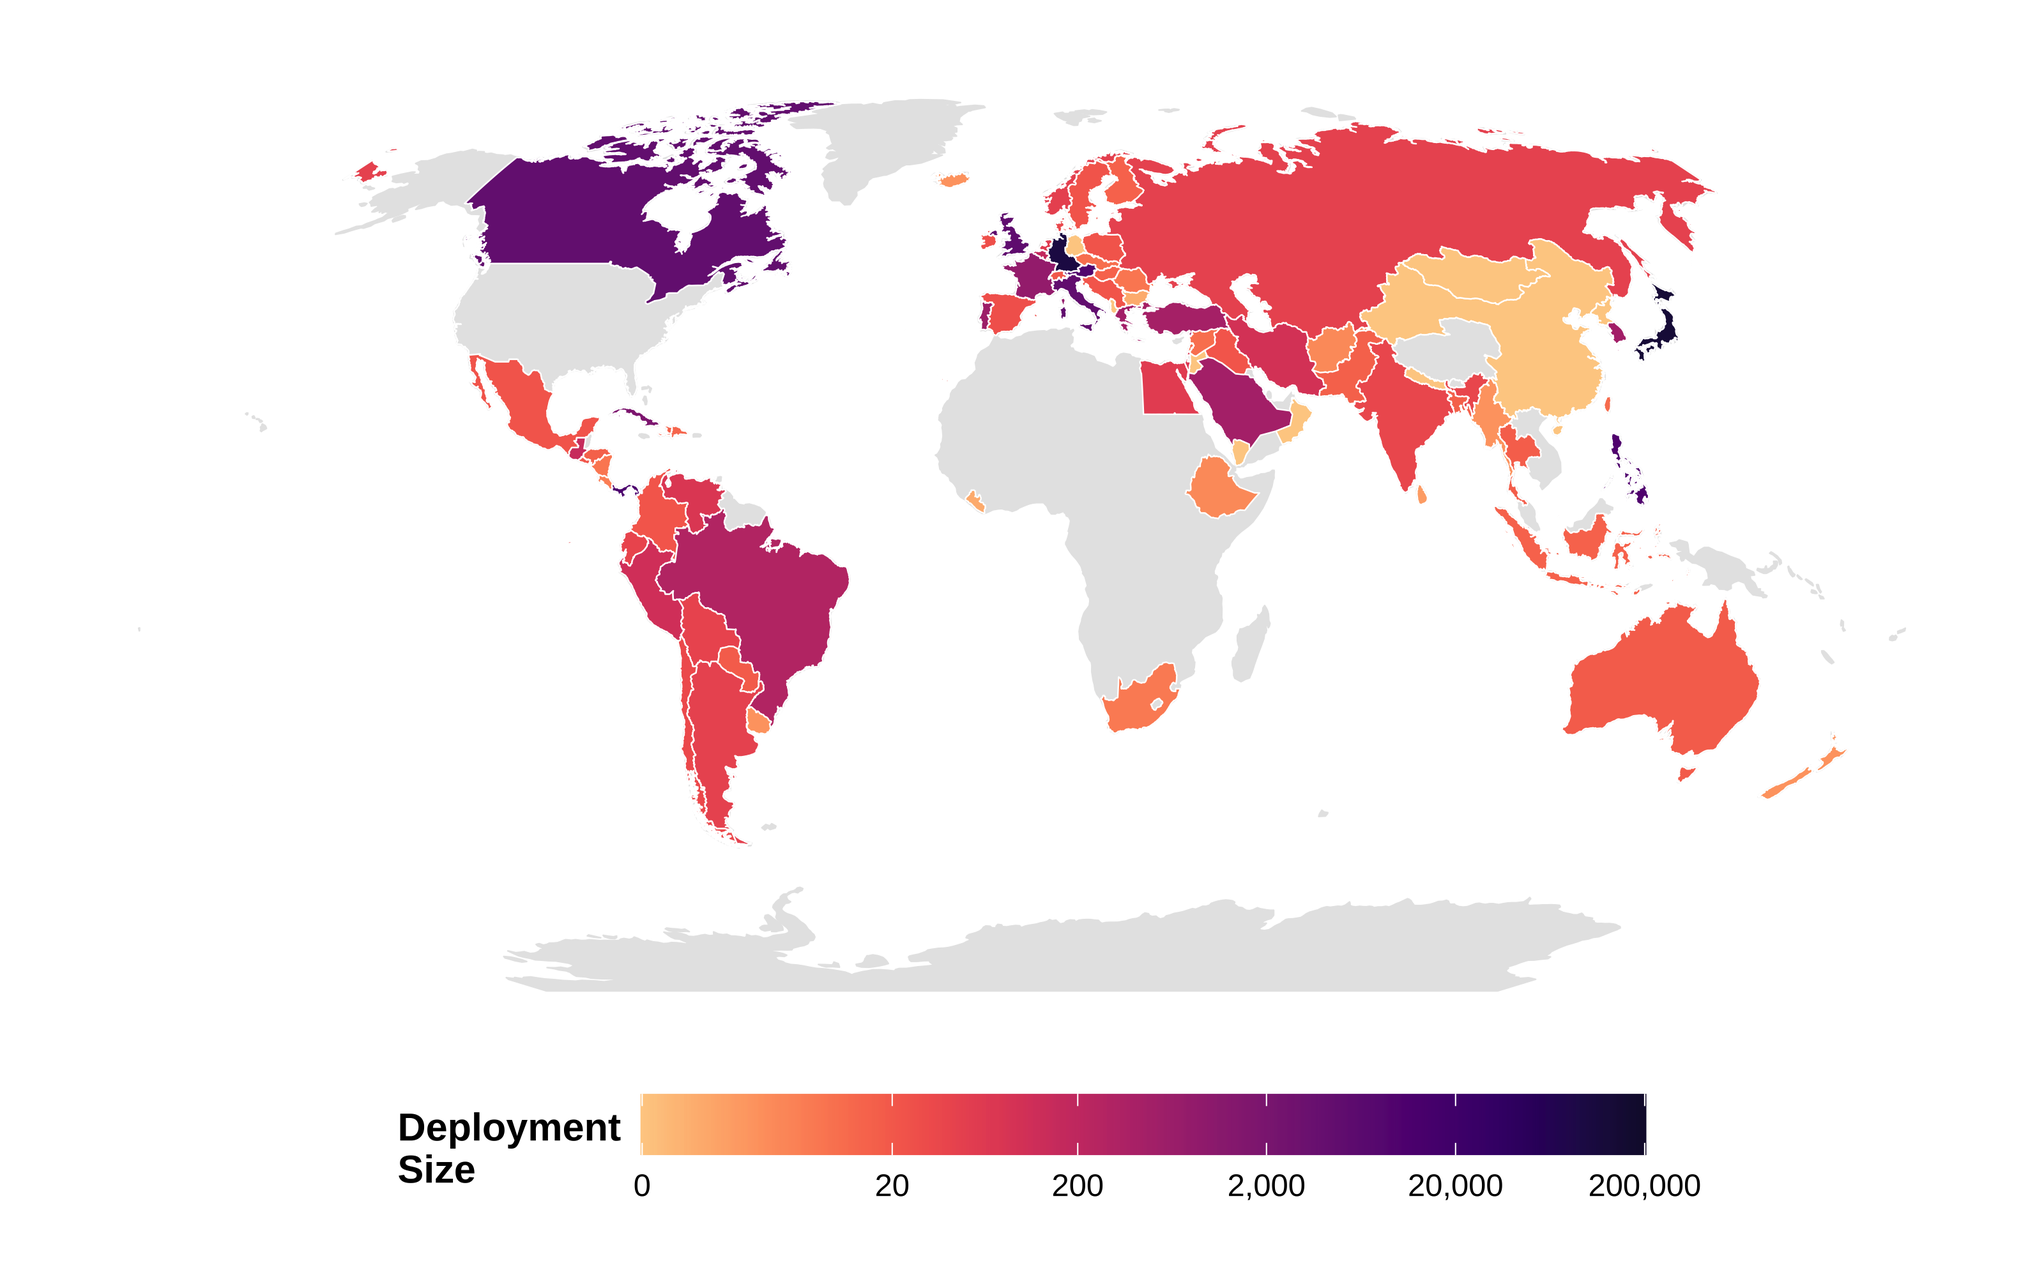
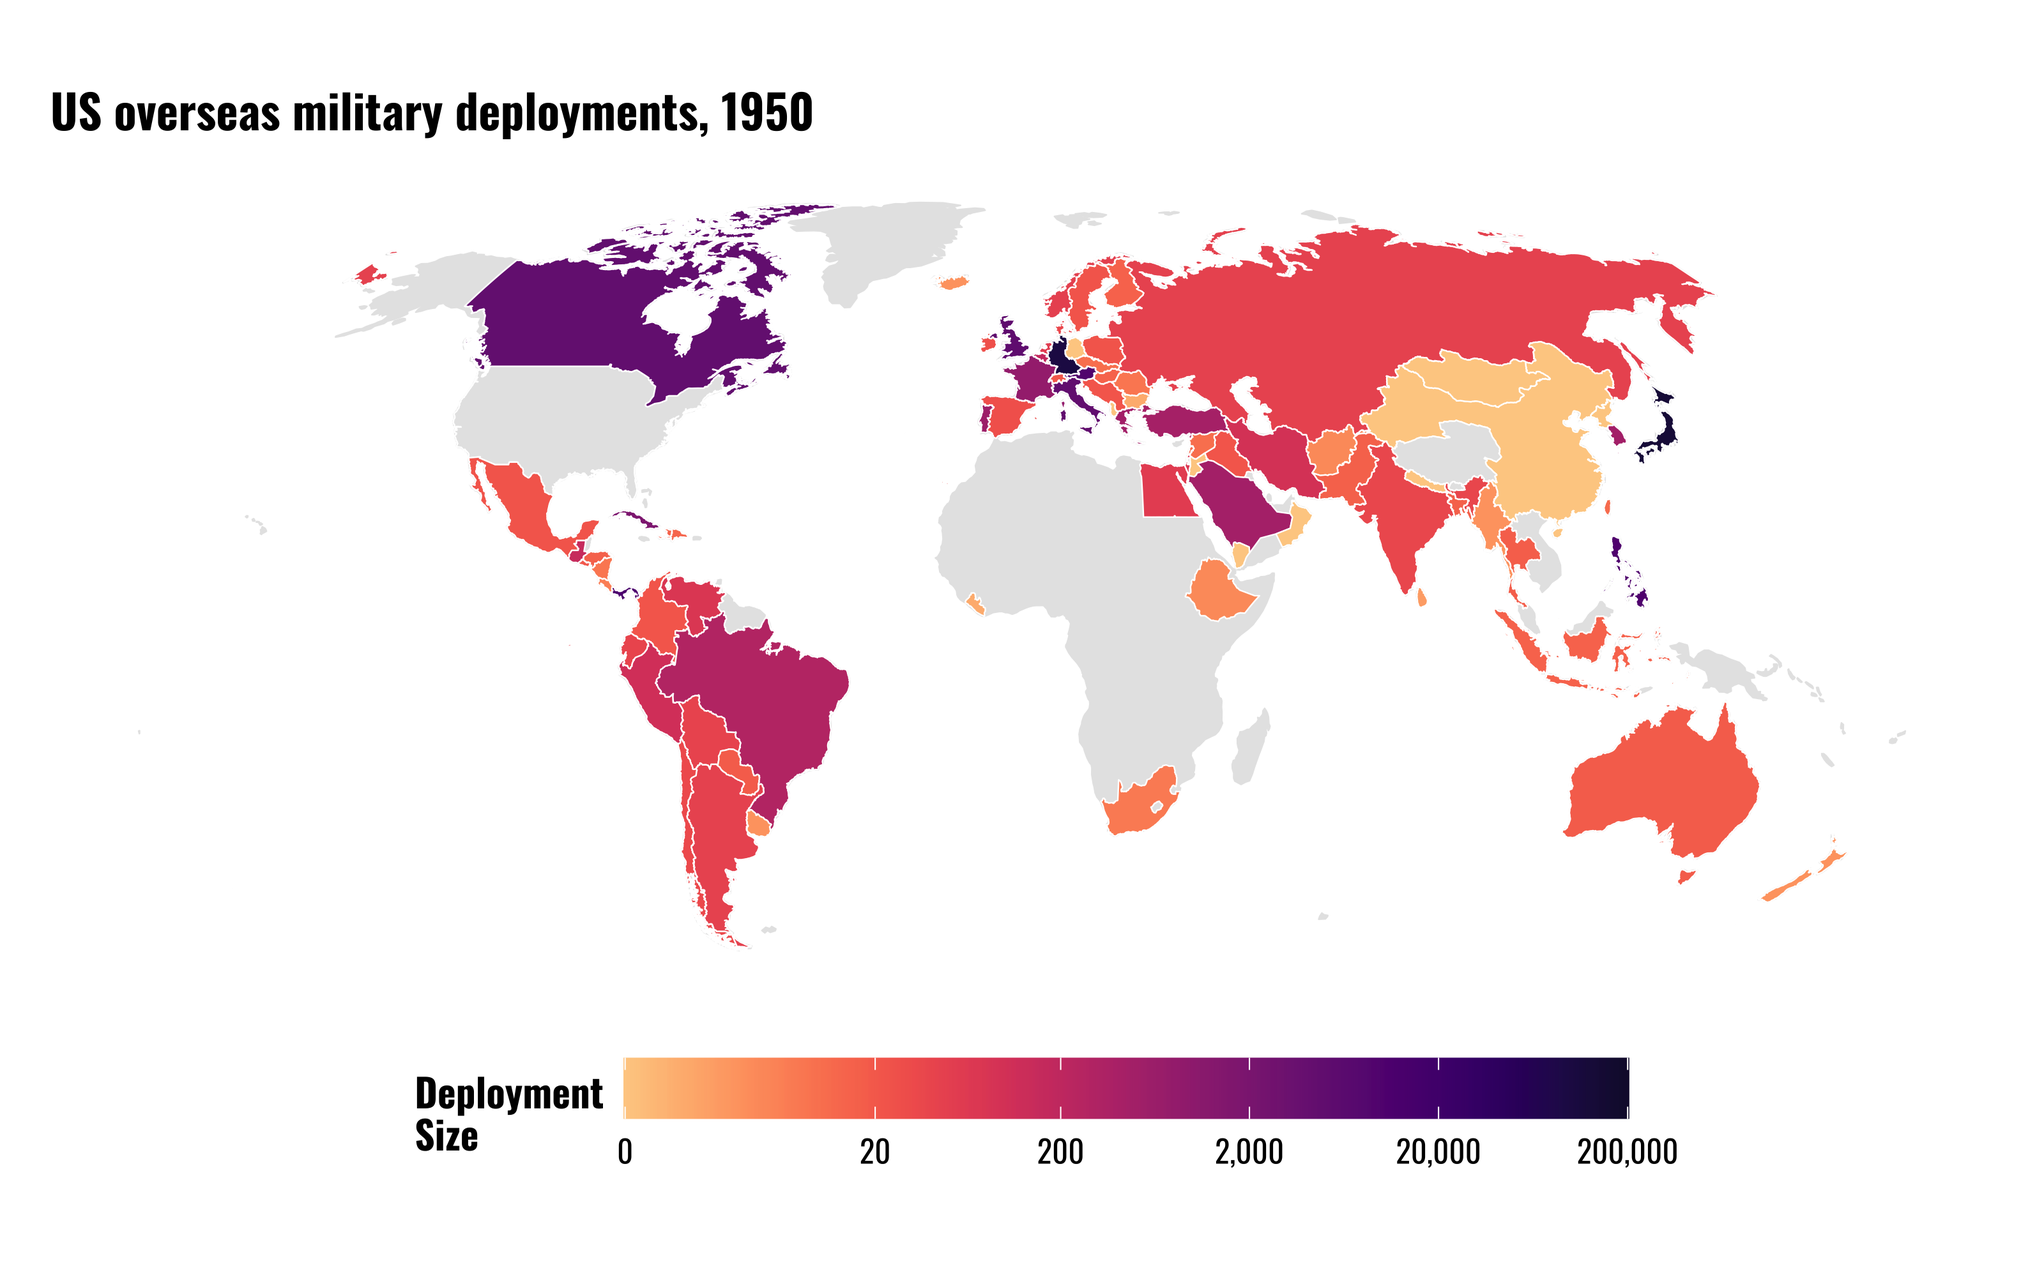
Update bargaining slides. Include notes that were deleted from Dropbox for some reason.

Changed region(s): [[0.0312, 0.062, 0.9062, 0.775], [0.1875, 0.806, 0.8438, 0.93]]

diff --git a/docs/lectures/polsc145-bargaining-model.html b/docs/lectures/polsc145-bargaining-model.html
@@ -27,7 +27,7 @@ class: middle, left, inverse, title-slide
 ### Kansas State University
 ]
 .date[
-### Last Updated 2023-02-07
+### Last Updated 2023-02-08
 ]
 
 ---
@@ -84,6 +84,14 @@ Why do states go to war?
 
 - War can also be highly unpredictable
 
+???
+
+# Notes
+
+
+- War is incredibly costly
+- Rarely is there an all-or-nothing situation where it is impossible to negotiate some middle ground
+- So why can’t states settle on an agreement that leaves both sides better off while avoiding the costs of actual war?
 
 
 ---
@@ -110,6 +118,14 @@ Previous explanations
 - Anarchy
 
 - Imbalances of power
+
+???
+
+# Notes
+
+- Bad people don't always go to war. Sometimes good people go to war.
+- Waltz argues that because there is no overarching authority, there is nothing to stop states from going to war. However, anarchy is constant. Can’t explain variation in outcomes. Why aren’t more powerful states always attacking weaker? We observe cooperation under anarchy, so why can’t states reach a settlement?
+- Power imbalances: When one state is more powerful than another it will seek to dominate the less powerful state. This doesn’t explain why states couldn’t reach a bargain.
 
 
 
@@ -144,6 +160,14 @@ Carl von Clausewitz
 &lt;img src="https://www.clausewitz.com/images/Clausewitz-romantik.jpg" width="70%" style="display: block; margin: auto;" /&gt;
 ]
 
+???
+
+# Notes
+
+- "War is the continuation of politics by other means."
+- Bargaining framework conceptualizes war as one possible option in the broader bargaining/negotiation taking place between states.
+- "It is, of course, well-known that the only source of war is politics—the intercourse of governments and peoples; but it is apt to be assumed that war suspends that intercourse and replaces it by a wholly different condition, ruled by no law but its own…We maintain, on the contrary, that war is simply a continuation of political intercourse, with the addition of other means. We deliberately use the phrase “with the addition of other means” because we also want to make it clear that war in itself does not suspend political intercourse or change it into something entirely different." Page 605.
+
 
 
 ---
@@ -156,7 +180,11 @@ class: left, top
 &gt; **Bargaining Model**: A class of itneractions in which actors try to resolve disputes over the allocation of goods.
 
 
+???
 
+# Notes
+
+Schelling supplementary discussion: "[M]ost conflict situations are essentially bargaining situations. They are situations in which the ability of one participant to gain his ends is dependent to an important degree on the choices or decisions that the other participant will make…To characterize the maneuvers and actions of limited war as a bargaining process is to emphasize that, in addition to the divergent of interest over the variables in dispute, there is a powerful common interest in reaching an outcome that is not enormously destructive of values to both sides. A ‘successful’ employees’ strike is not one that destroys the employer financially, it may even be one that need takes place. Something similar can be true of war." (Schelling 1960, 5–6).
 
 
 
@@ -253,6 +281,16 @@ class: center, middle
 
 &lt;img src="https://upload.wikimedia.org/wikipedia/commons/f/f9/Map_of_Ottoman_Rail_Network_in_World_War_I.jpg" width="65%" /&gt;
 
+???
+
+# Notes
+### British shelling of Baghdad railway at Alexandretta
+- December 20 1914 the HMS Doris begins shelling the Baghdad railway near Alexandretta. Alexandretta is a major hub where troops and supplies are ferried between the Middle East and Europe.
+- After the attack, the Doris sails into the harbor at Alexandretta under a white flag. British demand Ottoman garrison surrender all rail stock and war material for the British to destroy. If the Ottomans refused the British threatened to shell the city. Giving fair warning to an unfortified position fulfilled British obligations under Geneva Conventions. 
+- Cemal Pasha, one of the ruling triumvirate of Turkey, refused British demands. If the British shelled Alexandretta, Cemal threatened to destroy equivalent British properties in Syria. Cemal refuses to evacuate Ottoman citizens and threatens to execute an equivalent number of British POWs for any Ottoman citizens killed in the British attack. 
+- Americans agree to mediate the dispute. Verify that no Ottoman troops are in Alexandretta, and that no Ottoman munitions are apparent in the city or on nearby railways. Negotiate the destruction of two train engines, which were supposed to be the only war material in Alexandretta, to satisfy British objectives. Incident concluded with British sailing away and the incident deescalated. 
+- Note that Americans provided credible information regarding presence and amount of war material. Ottoman claims were initially not credible. 
+- Cost of fighting to British is loss of British property and POW’s lives, possibly their ships. Also possible that they lose all of this and there’s no real war material to destroy. 
 
 
 
@@ -307,6 +345,15 @@ class: center, middle
 &lt;p class="caption"&gt;In the Battle of the Sha River, a Company of Our Forces Drives a Strong Enemy Force to the Left Bank of the Taizi River” by Yoshikuni, November 1904.&lt;/p&gt;
 &lt;/div&gt;
 
+???
+
+# Notes
+
+### Russo-Japanese War. 
+
+- Russians viewed their chances of winning as nearly 100%. Japanese estimated chances at about 50%. 
+Japanese sent many feelers and attempted to negotiate with the Russians. Russians did not make any real compromises because they believed the Japanese would back down. 
+- Historians argue that Japanese intelligence was better than Russian intelligence (and Western intelligence more broadly) and the Japanese had a better sense of their own fighting abilities. Since the Japanese forces had been modernizing, training, and reequipping themselves, no- body else had really seen them fight in actual combat. The Russians believed that the Japanese were over-representing their own military skills in an effort to get a better deal, but the Japanese claims were indeed accurate.
 
 
 
@@ -314,24 +361,25 @@ class: center, middle
 class: center, middle
 
 .middle[
-
-
 &lt;figure&gt;
-&lt;img src="https://upload.wikimedia.org/wikipedia/commons/thumb/d/d4/George-W-Bush.jpeg/1200px-George-W-Bush.jpeg" style="height:500px; width:400px; align:center; margin:auto;"/&gt;
+&lt;img src="https://upload.wikimedia.org/wikipedia/commons/thumb/d/d4/George-W-Bush.jpeg/1200px-George-W-Bush.jpeg" style="height:450px; width:400px; align:center; margin:auto;"/&gt;
 &lt;figcaption&gt; George W. Bush &lt;/figcaption&gt;
 &lt;/figure&gt;
 
 
-
-
 &lt;figure&gt;
-&lt;img src="https://upload.wikimedia.org/wikipedia/commons/thumb/f/f6/Saddam_Hussein_at_trial%2C_July_2004-edit1.JPEG/1200px-Saddam_Hussein_at_trial%2C_July_2004-edit1.JPEG" style="height:500px; width:400px; align:center; margin:auto;"/&gt;
+&lt;img src="https://upload.wikimedia.org/wikipedia/commons/thumb/f/f6/Saddam_Hussein_at_trial%2C_July_2004-edit1.JPEG/1200px-Saddam_Hussein_at_trial%2C_July_2004-edit1.JPEG" style="height:450px; width:400px; align:center; margin:auto;"/&gt;
 &lt;figcaption&gt; Saddam Hussein &lt;/figcaption&gt;
 &lt;/figure&gt;
-
-
 ]
 
+???
+
+# Notes
+
+### George W. Bush’s threats to invade Iraq. 
+
+- US demanded that Saddam destroy his capabilities to produce chemical and biological weapons. Saddam did this during the 1990s, but he believed that the US was misrepresenting its willingness to invade Iraq, given a ongoing war in Afghanistan. He also had an incentive to misrepresent himself because he was wary of Iran. 
 
 
 
@@ -349,13 +397,28 @@ Private Incomplete Information
 - Big incentives to bluff
 
 
+???
+
+# Notes
+
+- Why not tell your opponent? 
+- Is your information credible?
+- States have big incentives to bluff. If you can lie about your capabilities and get a better deal, then you come out ahead and the other state looks weak and incompetent. 
+
+
+
 
 ---
 class: center, middle
 
-![](polsc145-bargaining-model_files/figure-html/unnamed-chunk-4-1.png)&lt;!-- --&gt;
+![Map of US overseas military deployments in 1950.](polsc145-bargaining-model_files/figure-html/unnamed-chunk-4-1.png)
 
+???
 
+# Notes
+
+- Steps can be taken to communicate things like resolve and capabilities.
+- Tying hands/ US troop deployments as signals of willingness and resolve. US has deployed military forces throughout the globe. High-density deployments are located in areas like West Germany, Korea, and Japan. The idea is that if anyone attacks an ally, the US will automatically be involved.
 
 
 ---
@@ -371,7 +434,14 @@ Commitment Problems
 
 - Other deals are made against the backdrop of changing power dynamics
 
+???
 
+# Notes
+
+- Necessarily dynamic—these involve thinking about the future 
+- Even if a deal can be struck now, there are risks associated with the future distribution 
+of power. 
+- Some goods affect the distribution of power. Bargains over them at time t will not necessarily hold over time, as states have an incentive to press for greater demands at time t + 1.
 
 
 ---

diff --git a/lectures/polsc145-bargaining-model.html b/lectures/polsc145-bargaining-model.html
@@ -27,7 +27,7 @@ class: middle, left, inverse, title-slide
 ### Kansas State University
 ]
 .date[
-### Last Updated 2023-02-07
+### Last Updated 2023-02-08
 ]
 
 ---
@@ -84,6 +84,14 @@ Why do states go to war?
 
 - War can also be highly unpredictable
 
+???
+
+# Notes
+
+
+- War is incredibly costly
+- Rarely is there an all-or-nothing situation where it is impossible to negotiate some middle ground
+- So why can’t states settle on an agreement that leaves both sides better off while avoiding the costs of actual war?
 
 
 ---
@@ -110,6 +118,14 @@ Previous explanations
 - Anarchy
 
 - Imbalances of power
+
+???
+
+# Notes
+
+- Bad people don't always go to war. Sometimes good people go to war.
+- Waltz argues that because there is no overarching authority, there is nothing to stop states from going to war. However, anarchy is constant. Can’t explain variation in outcomes. Why aren’t more powerful states always attacking weaker? We observe cooperation under anarchy, so why can’t states reach a settlement?
+- Power imbalances: When one state is more powerful than another it will seek to dominate the less powerful state. This doesn’t explain why states couldn’t reach a bargain.
 
 
 
@@ -144,6 +160,14 @@ Carl von Clausewitz
 &lt;img src="https://www.clausewitz.com/images/Clausewitz-romantik.jpg" width="70%" style="display: block; margin: auto;" /&gt;
 ]
 
+???
+
+# Notes
+
+- "War is the continuation of politics by other means."
+- Bargaining framework conceptualizes war as one possible option in the broader bargaining/negotiation taking place between states.
+- "It is, of course, well-known that the only source of war is politics—the intercourse of governments and peoples; but it is apt to be assumed that war suspends that intercourse and replaces it by a wholly different condition, ruled by no law but its own…We maintain, on the contrary, that war is simply a continuation of political intercourse, with the addition of other means. We deliberately use the phrase “with the addition of other means” because we also want to make it clear that war in itself does not suspend political intercourse or change it into something entirely different." Page 605.
+
 
 
 ---
@@ -156,7 +180,11 @@ class: left, top
 &gt; **Bargaining Model**: A class of itneractions in which actors try to resolve disputes over the allocation of goods.
 
 
+???
 
+# Notes
+
+Schelling supplementary discussion: "[M]ost conflict situations are essentially bargaining situations. They are situations in which the ability of one participant to gain his ends is dependent to an important degree on the choices or decisions that the other participant will make…To characterize the maneuvers and actions of limited war as a bargaining process is to emphasize that, in addition to the divergent of interest over the variables in dispute, there is a powerful common interest in reaching an outcome that is not enormously destructive of values to both sides. A ‘successful’ employees’ strike is not one that destroys the employer financially, it may even be one that need takes place. Something similar can be true of war." (Schelling 1960, 5–6).
 
 
 
@@ -253,6 +281,16 @@ class: center, middle
 
 &lt;img src="https://upload.wikimedia.org/wikipedia/commons/f/f9/Map_of_Ottoman_Rail_Network_in_World_War_I.jpg" width="65%" /&gt;
 
+???
+
+# Notes
+### British shelling of Baghdad railway at Alexandretta
+- December 20 1914 the HMS Doris begins shelling the Baghdad railway near Alexandretta. Alexandretta is a major hub where troops and supplies are ferried between the Middle East and Europe.
+- After the attack, the Doris sails into the harbor at Alexandretta under a white flag. British demand Ottoman garrison surrender all rail stock and war material for the British to destroy. If the Ottomans refused the British threatened to shell the city. Giving fair warning to an unfortified position fulfilled British obligations under Geneva Conventions. 
+- Cemal Pasha, one of the ruling triumvirate of Turkey, refused British demands. If the British shelled Alexandretta, Cemal threatened to destroy equivalent British properties in Syria. Cemal refuses to evacuate Ottoman citizens and threatens to execute an equivalent number of British POWs for any Ottoman citizens killed in the British attack. 
+- Americans agree to mediate the dispute. Verify that no Ottoman troops are in Alexandretta, and that no Ottoman munitions are apparent in the city or on nearby railways. Negotiate the destruction of two train engines, which were supposed to be the only war material in Alexandretta, to satisfy British objectives. Incident concluded with British sailing away and the incident deescalated. 
+- Note that Americans provided credible information regarding presence and amount of war material. Ottoman claims were initially not credible. 
+- Cost of fighting to British is loss of British property and POW’s lives, possibly their ships. Also possible that they lose all of this and there’s no real war material to destroy. 
 
 
 
@@ -307,6 +345,15 @@ class: center, middle
 &lt;p class="caption"&gt;In the Battle of the Sha River, a Company of Our Forces Drives a Strong Enemy Force to the Left Bank of the Taizi River” by Yoshikuni, November 1904.&lt;/p&gt;
 &lt;/div&gt;
 
+???
+
+# Notes
+
+### Russo-Japanese War. 
+
+- Russians viewed their chances of winning as nearly 100%. Japanese estimated chances at about 50%. 
+Japanese sent many feelers and attempted to negotiate with the Russians. Russians did not make any real compromises because they believed the Japanese would back down. 
+- Historians argue that Japanese intelligence was better than Russian intelligence (and Western intelligence more broadly) and the Japanese had a better sense of their own fighting abilities. Since the Japanese forces had been modernizing, training, and reequipping themselves, no- body else had really seen them fight in actual combat. The Russians believed that the Japanese were over-representing their own military skills in an effort to get a better deal, but the Japanese claims were indeed accurate.
 
 
 
@@ -314,24 +361,25 @@ class: center, middle
 class: center, middle
 
 .middle[
-
-
 &lt;figure&gt;
-&lt;img src="https://upload.wikimedia.org/wikipedia/commons/thumb/d/d4/George-W-Bush.jpeg/1200px-George-W-Bush.jpeg" style="height:500px; width:400px; align:center; margin:auto;"/&gt;
+&lt;img src="https://upload.wikimedia.org/wikipedia/commons/thumb/d/d4/George-W-Bush.jpeg/1200px-George-W-Bush.jpeg" style="height:450px; width:400px; align:center; margin:auto;"/&gt;
 &lt;figcaption&gt; George W. Bush &lt;/figcaption&gt;
 &lt;/figure&gt;
 
 
-
-
 &lt;figure&gt;
-&lt;img src="https://upload.wikimedia.org/wikipedia/commons/thumb/f/f6/Saddam_Hussein_at_trial%2C_July_2004-edit1.JPEG/1200px-Saddam_Hussein_at_trial%2C_July_2004-edit1.JPEG" style="height:500px; width:400px; align:center; margin:auto;"/&gt;
+&lt;img src="https://upload.wikimedia.org/wikipedia/commons/thumb/f/f6/Saddam_Hussein_at_trial%2C_July_2004-edit1.JPEG/1200px-Saddam_Hussein_at_trial%2C_July_2004-edit1.JPEG" style="height:450px; width:400px; align:center; margin:auto;"/&gt;
 &lt;figcaption&gt; Saddam Hussein &lt;/figcaption&gt;
 &lt;/figure&gt;
-
-
 ]
 
+???
+
+# Notes
+
+### George W. Bush’s threats to invade Iraq. 
+
+- US demanded that Saddam destroy his capabilities to produce chemical and biological weapons. Saddam did this during the 1990s, but he believed that the US was misrepresenting its willingness to invade Iraq, given a ongoing war in Afghanistan. He also had an incentive to misrepresent himself because he was wary of Iran. 
 
 
 
@@ -349,13 +397,28 @@ Private Incomplete Information
 - Big incentives to bluff
 
 
+???
+
+# Notes
+
+- Why not tell your opponent? 
+- Is your information credible?
+- States have big incentives to bluff. If you can lie about your capabilities and get a better deal, then you come out ahead and the other state looks weak and incompetent. 
+
+
+
 
 ---
 class: center, middle
 
-![](polsc145-bargaining-model_files/figure-html/unnamed-chunk-4-1.png)&lt;!-- --&gt;
+![Map of US overseas military deployments in 1950.](polsc145-bargaining-model_files/figure-html/unnamed-chunk-4-1.png)
 
+???
 
+# Notes
+
+- Steps can be taken to communicate things like resolve and capabilities.
+- Tying hands/ US troop deployments as signals of willingness and resolve. US has deployed military forces throughout the globe. High-density deployments are located in areas like West Germany, Korea, and Japan. The idea is that if anyone attacks an ally, the US will automatically be involved.
 
 
 ---
@@ -371,7 +434,14 @@ Commitment Problems
 
 - Other deals are made against the backdrop of changing power dynamics
 
+???
 
+# Notes
+
+- Necessarily dynamic—these involve thinking about the future 
+- Even if a deal can be struck now, there are risks associated with the future distribution 
+of power. 
+- Some goods affect the distribution of power. Bargains over them at time t will not necessarily hold over time, as states have an incentive to press for greater demands at time t + 1.
 
 
 ---
